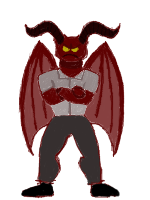
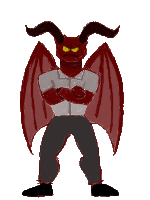
Started to add the cutscenes

diff --git a/GGJ16/src/ggj16/states/PlayState.java b/GGJ16/src/ggj16/states/PlayState.java
@@ -137,12 +137,6 @@ public class PlayState extends GameState {
         if (paperworkLeft < 0) {
             paperworkLeft = 0;
         }
-        
-        // if you finished all tasks and did all paperwork, then you're done for the day.
-        if (isFinishedWithDailyThings()) {
-            //advanceDay();
-            System.out.println("COMPLETED ALL TASKS");
-        }
        
         
         // imp spawning
@@ -532,7 +526,7 @@ public class PlayState extends GameState {
             }
         }
         if (keycode == KeyCode.KEY_T && pressed) {
-            System.out.println("Toggle");
+            //System.out.println("Toggle");
             toggleToDoListVisiblity();
         }
         if (keycode == KeyCode.KEY_Z) {
@@ -601,8 +595,17 @@ public class PlayState extends GameState {
         nextTaskIndex = 0;
         tickProgress = 0;
         ticksPerHour = MILLIS_PER_HOUR_INITIAL;
+        currImpAttackTime = 0; // reset imp spawn time;
         for (int i=0; i<toDoList.size(); i++) {
             toDoList.get(i).resetForDay();
+        }
+        // remove all imp task blocks.
+        for (int i=0; i<impTaskObjects.size(); i++) {
+            if (impTaskObjects.get(i).getAssociatedTask() == activeTask) {
+                activeTask = null;
+            }
+            officeWorld.getEntities().remove(impTaskObjects.get(i));
+            impTaskObjects.remove(i);
         }
         SoundPlayer.getSoundPlayer().setMusicTo(SoundPlayer.MAIN_SONG);
     }
@@ -653,11 +656,11 @@ public class PlayState extends GameState {
                 getGameStateRunner().setState(new WinState());
             }
             
-            System.out.println("The day is now: " + dayOn);
-            System.out.println("Ticks per hour is now: " + ticksPerHour);
+           // System.out.println("The day is now: " + dayOn);
+           // System.out.println("Ticks per hour is now: " + ticksPerHour);
         } else {
             //Did not complete all tasks
-            System.out.println("YOU ARE FIRED");
+            //System.out.println("YOU ARE FIRED");
             getGameStateRunner().setState(new FiredState());
         }
     }

diff --git a/GGJ16/src/ggj16/states/WinState.java b/GGJ16/src/ggj16/states/WinState.java
@@ -5,10 +5,10 @@
  */
 package ggj16.states;
 
+import bropals.lib.simplegame.KeyCode;
 import bropals.lib.simplegame.state.GameState;
 import ggj16.sound.SoundPlayer;
 import java.awt.Color;
-import java.awt.Graphics;
 import java.awt.Graphics2D;
 import java.awt.image.BufferedImage;
 
@@ -29,24 +29,44 @@ public class WinState extends GameState {
     @Override
     public void render(Object o) {
         Graphics2D g2 = (Graphics2D) o;
-        if (images.length > screenOn) {
-             g2.drawImage(images[screenOn], 0, 0, null);
-        } else {
-            g2.setColor(Color.YELLOW);
-            g2.fillRect(0, 0, 800, 600);
+        g2.setColor(Color.BLACK);
+        g2.fillRect(0, 0, 800, 600);
+        switch (screenOn) {
+            case 0:
+                g2.drawImage(images[0], 397, 72, 275, 367, null);
+                break;
+            case 1:
+                
+                break;
+            case 2:
+                g2.drawImage(images[0], 0, 0, 800, 1067, null);
+                break;
+            case 3:
+                
+                break;
         }
     }
 
     @Override
     public void onEnter() {
         SoundPlayer.getSoundPlayer().playVictoryMusic();
-        images = new BufferedImage[]{ 
-            
-        };        
-        
+        images = new BufferedImage[]{
+            getAssetManager().getImage("boss")
+        };      
         screenOn = 0;
     }
 
+    @Override
+    public void key(int keycode, boolean pressed) {
+        super.key(keycode, pressed);
+        if (pressed && keycode == KeyCode.KEY_SPACE) {
+            screenOn++;
+            if (screenOn > 3) {
+                
+            }
+        }
+    }
+    
     @Override
     public void onExit() {
     }

diff --git a/GGJ16/src/ggj16/states/FiredState.java b/GGJ16/src/ggj16/states/FiredState.java
@@ -5,6 +5,7 @@
  */
 package ggj16.states;
 
+import bropals.lib.simplegame.KeyCode;
 import bropals.lib.simplegame.state.GameState;
 import ggj16.sound.SoundPlayer;
 import java.awt.Color;
@@ -28,22 +29,42 @@ public class FiredState extends GameState {
     @Override
     public void render(Object o) {
         Graphics2D g2 = (Graphics2D) o;
-        Graphics g = (Graphics)o;
-        if (images.length > screenOn) {
-             g.drawImage(images[screenOn], 0, 0, null);
-        } else {
-            g2.setColor(Color.RED);
-            g2.fillRect(0, 0, 800, 600);
+        g2.setColor(Color.BLACK);
+        g2.fillRect(0, 0, 800, 600);
+        switch (screenOn) {
+            case 0:
+                g2.drawImage(images[0], 397, 72, 275, 367, null);
+                break;
+            case 1:
+                
+                break;
+            case 2:
+                g2.drawImage(images[0], 0, 0, 800, 1067, null);
+                break;
+            case 3:
+                
+                break;
         }
     }
 
     @Override
     public void onEnter() {
         SoundPlayer.getSoundPlayer().setMusicTo(SoundPlayer.LOSER_SONG);
-        images = new BufferedImage[]{ // nothing
-            
+        images = new BufferedImage[]{
+            getAssetManager().getImage("boss")
         };
         screenOn = 0;
+    }
+
+    @Override
+    public void key(int keycode, boolean pressed) {
+        super.key(keycode, pressed);
+        if (pressed && keycode == KeyCode.KEY_SPACE) {
+            screenOn++;
+            if (screenOn > 3) {
+                
+            }
+        }
     }
 
     @Override

diff --git a/GGJ16/src/ggj16/GGJ16.java b/GGJ16/src/ggj16/GGJ16.java
@@ -11,6 +11,7 @@ import bropals.lib.simplegame.GameStateRunner;
 import bropals.lib.simplegame.GameWindow;
 import bropals.lib.simplegame.io.AssetManager;
 import ggj16.states.MenuState;
+import ggj16.states.WinState;
 import java.io.File;
 
 /**
@@ -32,7 +33,7 @@ public class GGJ16 {
         SoundPlayer.getSoundPlayer().init(assetManager);
         
         GameStateRunner runner = new GameStateRunner(window, assetManager);
-        runner.setState(new MenuState());
+        runner.setState(new WinState());
         runner.loop();
     }
     

diff --git a/GGJ16/src/ggj16/gui/PaperStackGui.java b/GGJ16/src/ggj16/gui/PaperStackGui.java
@@ -37,7 +37,8 @@ public class PaperStackGui extends GuiButton {
             ps.PAPERWORK_PER_DAY_BASE_VALUE*0.8f,
             ps.PAPERWORK_PER_DAY_BASE_VALUE*0.6f,
             ps.PAPERWORK_PER_DAY_BASE_VALUE*0.4f,
-            ps.PAPERWORK_PER_DAY_BASE_VALUE*0.2f
+            ps.PAPERWORK_PER_DAY_BASE_VALUE*0.2f,
+            0
         };
         setGuiButtonAction(new GuiButtonAction() {
             @Override
